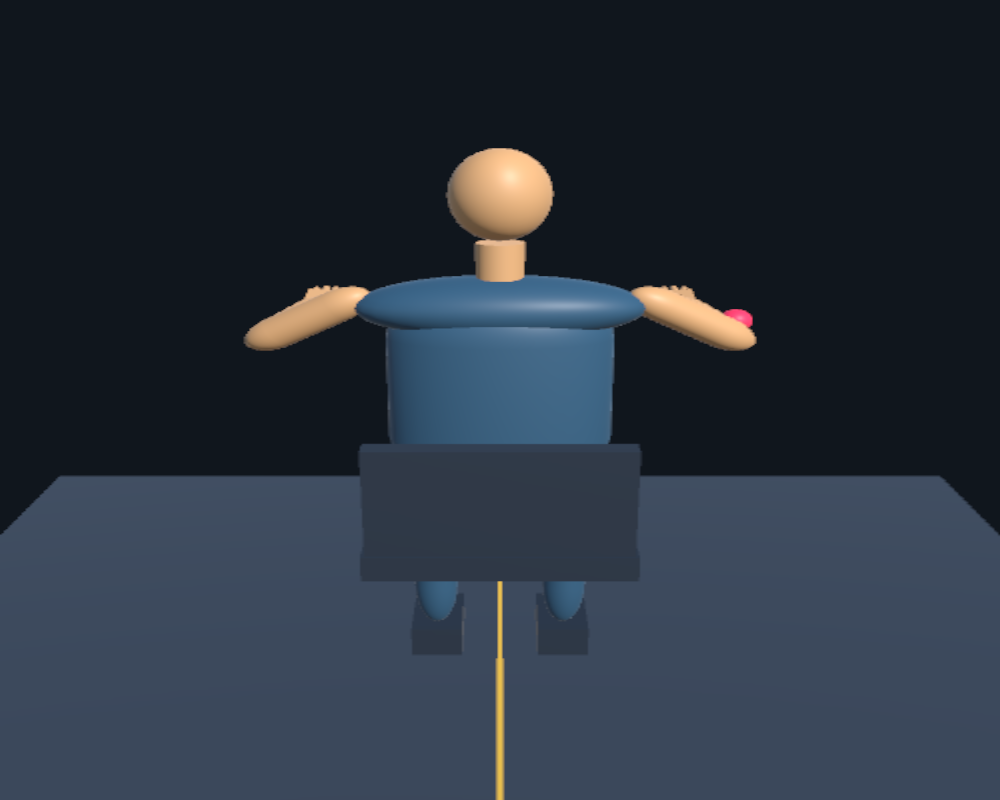
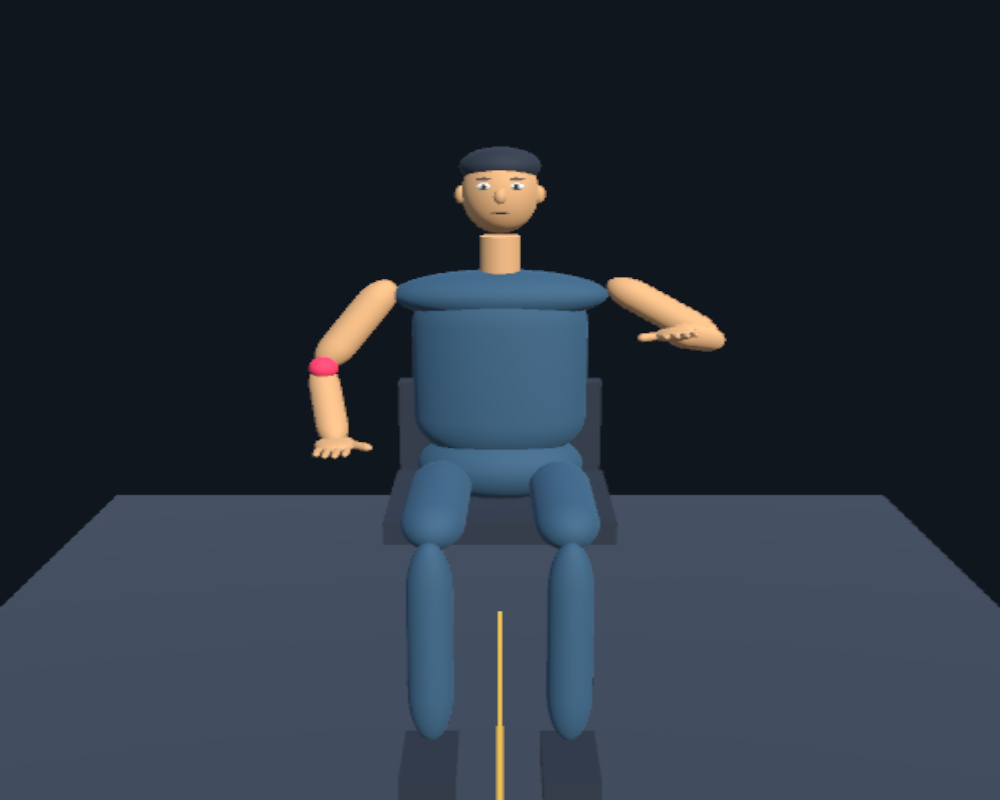
feat: add opposite-only mapping and front-facing embodiment views

Changed region(s): [[0.0, 0.1562, 1.0, 0.9375]]

diff --git a/Assets/ClassDemo/Scripts/ClassEmbodimentDemo.cs b/Assets/ClassDemo/Scripts/ClassEmbodimentDemo.cs
@@ -11,7 +11,9 @@ namespace ClassEmbodimentDemo
         Camera sourceCamera, displayCamera;
         Transform sourceTouch, displayedTouch;
         bool animate=true, touch, crossTouch=true, firstPerson;
+        bool oppositeOnly=true;
         int touchSide;
+        float lookPitch=38f, lookYaw;
         float time, touchTime, manualHeight=.98f;
         Pose left, right;
         readonly System.Collections.Generic.List<Material> materials=new System.Collections.Generic.List<Material>();
@@ -20,16 +22,17 @@ namespace ClassEmbodimentDemo
         {
             var body=Material("Clothing",new Color(.19f,.34f,.44f));
             var skin=Material("Virtual skin",new Color(.85f,.64f,.43f));
-            var ghost=Material("Simulated source",new Color(.31f,.71f,.78f));
+            var sourceShirt=Material("Source shirt",new Color(.12f,.43f,.57f));
+            var eyeWhite=Material("Eye whites",new Color(.88f,.89f,.85f));
             var chair=Material("Chair",new Color(.13f,.17f,.22f));
-            source=new DemoMannequin("SIMULATED physical body",new Vector3(-2,0,0),body,ghost,chair);
-            displayed=new DemoMannequin("DISPLAYED virtual body",new Vector3(2,0,0),body,skin,chair);
+            source=new DemoMannequin("SIMULATED physical body",new Vector3(-2,0,0),sourceShirt,skin,chair,eyeWhite);
+            displayed=new DemoMannequin("DISPLAYED virtual body",new Vector3(2,0,0),body,skin,chair,eyeWhite);
             SetLayer(source.Root,8); SetLayer(displayed.Root,9);
-            sourceCamera=MakeCamera("Source observation camera",new Vector3(-2,2.05f,-2.75f),new Vector3(-2,1.03f,.18f));
-            displayCamera=MakeCamera("Avatar observation camera",new Vector3(2,2.05f,-2.75f),new Vector3(2,1.03f,.18f));
+            sourceCamera=MakeCamera("Source observation camera",new Vector3(-2,1.85f,3.1f),new Vector3(-2,1.06f,.1f));
+            displayCamera=MakeCamera("Avatar observation camera",new Vector3(2,1.85f,3.1f),new Vector3(2,1.06f,.1f));
             sourceCamera.cullingMask=1<<8; displayCamera.cullingMask=1<<9;
             var light=new GameObject("Demo directional light").AddComponent<Light>();
-            light.type=LightType.Directional; light.intensity=1.15f; light.transform.rotation=Quaternion.Euler(40,-30,0);
+            light.type=LightType.Directional; light.intensity=1.15f; light.transform.rotation=Quaternion.Euler(40,155,0);
             RenderSettings.ambientLight=new Color(.50f,.53f,.60f);
             var floorMat=Material("Floor",new Color(.21f,.25f,.30f));
             var lineMat=Material("Midline",new Color(.92f,.73f,.25f));
@@ -48,7 +51,7 @@ namespace ClassEmbodimentDemo
 
         Material Material(string name,Color color)
         {
-            var m=new Material(Shader.Find("Standard")){name=name,color=color}; materials.Add(m);return m;
+            var m=new Material(Shader.Find("Standard")){name=name,color=color}; m.SetFloat("_Glossiness",.18f); materials.Add(m);return m;
         }
         Transform Primitive(string name,PrimitiveType type,Vector3 position,Vector3 scale,Material material)
         {
@@ -76,12 +79,12 @@ namespace ClassEmbodimentDemo
             }
             float wave=(Mathf.Sin(time*1.1f)+1)*.5f;
             float y=animate?Mathf.Lerp(.94f,1.58f,wave):manualHeight;
-            var resting=new Pose(new Vector3(.35f,.98f,.29f),Quaternion.identity);
+            var resting=DemoMovementMapping.RestingPose(true);
             // Asymmetric inputs make source selection visible. Congruent mode animates left only.
             bool driveRight=condition==MovementCondition.RightToLeft;
             left=driveRight?new Pose(DemoMovementMapping.Reflect(resting.position),Quaternion.identity):new Pose(new Vector3(-.36f,y,.31f),Quaternion.Euler(-15*wave,0,-12*wave));
             right=driveRight?new Pose(new Vector3(.36f,y,.31f),Quaternion.Euler(-15*wave,0,12*wave)):resting;
-            DemoMovementMapping.Map(condition,left,right,out var outputLeft,out var outputRight);
+            DemoMovementMapping.Map(condition,left,right,out var outputLeft,out var outputRight,oppositeOnly);
             source.SetPose(0,left);source.SetPose(1,right);displayed.SetPose(0,outputLeft);displayed.SetPose(1,outputRight);
             if(touch)touchTime+=dt;
             float fraction=.2f+.6f*Mathf.PingPong(touchTime*.35f,1);
@@ -90,19 +93,26 @@ namespace ClassEmbodimentDemo
             displayedTouch.position=displayed.ForearmPoint(crossTouch?1-touchSide:touchSide,fraction);
             sourceTouch.gameObject.layer=8; displayedTouch.gameObject.layer=9;
             float uiScale=Screen.width/1280f;
-            float top=82f*uiScale/Screen.height, bottom=180f*uiScale/Screen.height;
+            float top=104f*uiScale/Screen.height, bottom=220f*uiScale/Screen.height;
+            sourceCamera.enabled=!firstPerson;
             sourceCamera.rect=new Rect(0,bottom,.5f,Mathf.Max(.1f,1-top-bottom));
-            displayCamera.rect=new Rect(.5f,bottom,.5f,Mathf.Max(.1f,1-top-bottom));
+            displayCamera.rect=new Rect(firstPerson?0:.5f,bottom,firstPerson?1:.5f,Mathf.Max(.1f,1-top-bottom));
             displayed.Head.gameObject.SetActive(!firstPerson);
             if(firstPerson)
             {
                 displayCamera.transform.position=new Vector3(2,1.68f,.07f);
-                displayCamera.transform.rotation=Quaternion.Euler(44,0,0);displayCamera.fieldOfView=100;
+                if(Mouse.current!=null && Mouse.current.rightButton.isPressed)
+                {
+                    Vector2 delta=Mouse.current.delta.ReadValue();
+                    lookYaw=Mathf.Clamp(lookYaw+delta.x*.10f,-65,65);
+                    lookPitch=Mathf.Clamp(lookPitch-delta.y*.10f,-15,75);
+                }
+                displayCamera.transform.rotation=Quaternion.Euler(lookPitch,lookYaw,0);displayCamera.fieldOfView=85;
             }
             else
             {
-                displayCamera.transform.position=new Vector3(2,2.05f,-2.75f);
-                displayCamera.transform.LookAt(new Vector3(2,1.03f,.18f));displayCamera.fieldOfView=42;
+                displayCamera.transform.position=new Vector3(2,1.85f,3.1f);
+                displayCamera.transform.LookAt(new Vector3(2,1.06f,.1f));displayCamera.fieldOfView=42;
             }
         }
 
@@ -114,22 +124,27 @@ namespace ClassEmbodimentDemo
             GUI.skin.label.fontSize=15; GUI.skin.button.fontSize=15; GUI.skin.toggle.fontSize=15;
             var title=new GUIStyle(GUI.skin.label){fontSize=21,fontStyle=FontStyle.Bold,alignment=TextAnchor.MiddleCenter};
             var label=new GUIStyle(GUI.skin.label){fontSize=14,alignment=TextAnchor.MiddleCenter,wordWrap=true};
-            GUI.Box(new Rect(0,0,w,82),GUIContent.none);
+            GUI.Box(new Rect(0,0,w,104),GUIContent.none);
             GUI.Label(new Rect(0,5,w,27),"CROSS-LIMB EMBODIMENT  /  CLASS DEMONSTRATION",title);
             GUI.Label(new Rect(0,33,w,23),"SIMULATED INPUT — No Quest tracking, physical touch sensing, or validated embodiment",label);
-            GUI.Label(new Rect(0,56,w*.5f,24),"SIMULATED PHYSICAL BODY  •  cyan arms",label);
-            GUI.Label(new Rect(w*.5f,56,w*.5f,24),"DISPLAYED VIRTUAL BODY  •  gold arms",label);
-            GUILayout.BeginArea(new Rect(8,h-174,w-16,170),GUI.skin.box);
+            GUI.Label(new Rect(0,56,firstPerson?w:w*.5f,24),firstPerson?"FIRST-PERSON VIRTUAL BODY  •  Hold right mouse button to look around":"SIMULATED PHYSICAL BODY  •  blue shirt",label);
+            if(!firstPerson) GUI.Label(new Rect(w*.5f,56,w*.5f,24),"DISPLAYED VIRTUAL BODY  •  dark shirt",label);
+            GUI.Label(new Rect(0,80,w,22),firstPerson?"Your LEFT is screen-left; your RIGHT is screen-right. Desktop preview, not stereoscopic VR.":"FRONT VIEW: participant RIGHT = screen-left  |  participant LEFT = screen-right",label);
+            GUILayout.BeginArea(new Rect(8,h-214,w-16,210),GUI.skin.box);
             GUILayout.BeginHorizontal();GUILayout.Label("Movement",GUILayout.Width(80));
             if(GUILayout.Button("Normal / congruent"))condition=MovementCondition.Congruent;
             if(GUILayout.Button("LEFT → RIGHT"))condition=MovementCondition.LeftToRight;
             if(GUILayout.Button("RIGHT → LEFT"))condition=MovementCondition.RightToLeft;
             GUILayout.EndHorizontal();
-            GUILayout.Label("Active: "+condition+". Source-side avatar arm remains congruent; mirror modes drive both displayed arms from one source.");
+            GUILayout.BeginHorizontal();
+            oppositeOnly=GUILayout.Toggle(oppositeOnly,"Opposite arm ONLY (off = both arms)",GUILayout.Width(350));
+            GUILayout.Label(condition==MovementCondition.Congruent?"Normal: physical left → virtual left; physical right → virtual right.":(oppositeOnly?"Only the opposite virtual arm moves; the unused arm stays at rest.":"One source drives BOTH virtual arms."));
+            GUILayout.EndHorizontal();
             GUILayout.BeginHorizontal();
             animate=GUILayout.Toggle(animate,"Animate simulated source",GUILayout.Width(205));
             GUILayout.Label("Manual height",GUILayout.Width(90));manualHeight=GUILayout.HorizontalSlider(manualHeight,.91f,1.61f,GUILayout.MinWidth(80));
             firstPerson=GUILayout.Toggle(firstPerson,"First-person avatar view",GUILayout.Width(205));
+            if(GUILayout.Button("Recenter view",GUILayout.Width(125))){lookPitch=38;lookYaw=0;}
             GUILayout.EndHorizontal();
             GUILayout.BeginHorizontal();
             if(GUILayout.Button(touch?"Stop visual touch":"Start visual touch",GUILayout.Width(155))){touch=!touch;touchTime=0;}
@@ -137,7 +152,7 @@ namespace ClassEmbodimentDemo
             crossTouch=GUILayout.Toggle(crossTouch,"Cross-limb touch (off = congruent)");
             GUILayout.EndHorizontal();
             GUILayout.Label("Touch: simulated "+(touchSide==0?"LEFT":"RIGHT")+" forearm → virtual "+((crossTouch?1-touchSide:touchSide)==0?"LEFT":"RIGHT")+" forearm. Pink marker = visual stimulus; fixed repeating forearm stroke.");
-            GUILayout.Label("Uncheck animation to use the height slider or ↑ / ↓. Yellow floor line = authored body midline. No scientific data recorded.");
+            GUILayout.Label("Uncheck animation to use the height slider or ↑ / ↓. All LEFT/RIGHT labels are anatomical (the participant’s sides). No scientific data recorded.");
             GUILayout.EndArea();
         }
         void OnDestroy(){foreach(var material in materials)if(material!=null)Destroy(material);}

diff --git a/Assets/ClassDemo/Scripts/DemoMannequin.cs b/Assets/ClassDemo/Scripts/DemoMannequin.cs
@@ -11,15 +11,27 @@ namespace ClassEmbodimentDemo
         readonly Vector3[] elbows = new Vector3[2], wrists = new Vector3[2];
         const float UpperLength = .30f, LowerLength = .28f;
 
-        public DemoMannequin(string name, Vector3 position, Material body, Material skin, Material chair)
+        public DemoMannequin(string name, Vector3 position, Material body, Material skin, Material chair, Material eyeWhite)
         {
             Root = new GameObject(name).transform;
             Root.position = position;
-            Part("Torso", PrimitiveType.Capsule, new Vector3(0,1.13f,0), new Vector3(.43f,.29f,.25f), body);
-            Part("Shoulders", PrimitiveType.Sphere, new Vector3(0,1.36f,0), new Vector3(.55f,.17f,.24f), body);
+            Part("Torso", PrimitiveType.Capsule, new Vector3(0,1.13f,0), new Vector3(.40f,.29f,.24f), body);
+            Part("Shoulders", PrimitiveType.Sphere, new Vector3(0,1.36f,0), new Vector3(.49f,.15f,.23f), body);
             Part("Hips", PrimitiveType.Sphere, new Vector3(0,.83f,0), new Vector3(.39f,.22f,.27f), body);
             Part("Neck", PrimitiveType.Cylinder, new Vector3(0,1.48f,0), new Vector3(.09f,.055f,.09f), skin);
-            Head = Part("Head", PrimitiveType.Sphere, new Vector3(0,1.66f,0), new Vector3(.19f,.24f,.20f), skin);
+            Head = Part("Head", PrimitiveType.Sphere, new Vector3(0,1.66f,0), new Vector3(.17f,.235f,.185f), skin);
+            // Facial landmarks make forward direction unambiguous. All face parts parent to Head
+            // so they disappear together in first-person view. Still a stylized procedural avatar.
+            Face("Hair",new Vector3(0,.075f,-.012f),new Vector3(.18f,.11f,.18f),chair);
+            Face("Nose",new Vector3(0,-.005f,.094f),new Vector3(.028f,.043f,.035f),skin);
+            Face("Mouth",new Vector3(0,-.052f,.080f),new Vector3(.044f,.006f,.012f),chair);
+            for(int side=-1;side<=1;side+=2)
+            {
+                Face("Ear",new Vector3(side*.086f,-.005f,0),new Vector3(.027f,.050f,.030f),skin);
+                Face("Eye white",new Vector3(side*.035f,.022f,.080f),new Vector3(.033f,.020f,.022f),eyeWhite);
+                Face("Iris",new Vector3(side*.035f,.022f,.090f),new Vector3(.013f,.015f,.008f),chair);
+                Face("Brow",new Vector3(side*.035f,.043f,.079f),new Vector3(.038f,.008f,.012f),chair);
+            }
             Part("Seat", PrimitiveType.Cube, new Vector3(0,.69f,0), new Vector3(.52f,.07f,.48f), chair);
             Part("Chair back", PrimitiveType.Cube, new Vector3(0,.89f,-.23f), new Vector3(.50f,.30f,.06f), chair);
             for (int i=0;i<2;i++)
@@ -34,7 +46,7 @@ namespace ClassEmbodimentDemo
                 lower[i]=Part(i==0?"Left forearm":"Right forearm",PrimitiveType.Capsule,Vector3.zero,Vector3.one,skin);
                 palms[i]=new GameObject(i==0?"Left hand":"Right hand").transform;
                 palms[i].SetParent(Root,false);
-                var palm=Part("Palm",PrimitiveType.Cube,Vector3.zero,new Vector3(.083f,.033f,.095f),skin);
+                var palm=Part("Palm",PrimitiveType.Sphere,Vector3.zero,new Vector3(.088f,.038f,.108f),skin);
                 palm.SetParent(palms[i],false);
                 for(int f=0;f<4;f++)
                 {
@@ -47,6 +59,16 @@ namespace ClassEmbodimentDemo
                 thumb.SetParent(palms[i],false);
                 Segment(thumb,new Vector3(-side*.035f,0,0),new Vector3(-side*.078f,0,.035f),.021f);
             }
+        }
+
+        void Face(string name, Vector3 localPosition, Vector3 scale, Material material)
+        {
+            var part=Part(name,PrimitiveType.Sphere,Vector3.zero,Vector3.one,material);
+            // Head itself has nonuniform scale; divide to preserve physical dimensions.
+            part.SetParent(Head,false);
+            var h=Head.localScale;
+            part.localPosition=new Vector3(localPosition.x/h.x,localPosition.y/h.y,localPosition.z/h.z);
+            part.localScale=new Vector3(scale.x/h.x,scale.y/h.y,scale.z/h.z);
         }
 
         Transform Part(string name, PrimitiveType type, Vector3 position, Vector3 scale, Material material)

diff --git a/Assets/ClassDemo/Editor/ClassDemoSetup.cs b/Assets/ClassDemo/Editor/ClassDemoSetup.cs
@@ -39,7 +39,20 @@ public static class ClassDemoSetup
             var expectedR=condition==MovementCondition.LeftToRight?DemoMovementMapping.Reflect(l.position):r.position;
             Require(Vector3.Distance(dl.position,expectedL)<.00001f && Vector3.Distance(dr.position,expectedR)<.00001f,"Condition routing failed.");
         }
-        Debug.Log("Class demo reflection checks PASS: involution, S R S orientation, and three condition routes. Hardware and anatomical validation not performed.");
+        foreach(var condition in new[]{MovementCondition.LeftToRight,MovementCondition.RightToLeft})
+        {
+            DemoMovementMapping.Map(condition,l,r,out var dl,out var dr,true);
+            bool leftSource=condition==MovementCondition.LeftToRight;
+            Pose parked=leftSource?dl:dr, active=leftSource?dr:dl, input=leftSource?l:r;
+            var expectedRest=DemoMovementMapping.RestingPose(!leftSource);
+            Require(Vector3.Distance(parked.position,expectedRest.position)<.00001f && Quaternion.Angle(parked.rotation,expectedRest.rotation)<.02f,"Unused arm must stay at neutral rest.");
+            Require(Vector3.Distance(active.position,DemoMovementMapping.Reflect(input.position))<.00001f && Quaternion.Angle(active.rotation,DemoMovementMapping.Reflect(input.rotation))<.02f,"Opposite-only pose mapping failed.");
+            var movedL=new Pose(l.position+Vector3.up*.1f,l.rotation);
+            var movedR=new Pose(r.position+Vector3.up*.1f,r.rotation);
+            DemoMovementMapping.Map(condition,movedL,movedR,out var nextL,out var nextR,true);
+            Require(Vector3.Distance(parked.position,(leftSource?nextL:nextR).position)<.00001f,"Unused arm must not follow source changes.");
+        }
+        Debug.Log("Class demo reflection checks PASS: involution, S R S orientation, three condition routes, and opposite-only parked-arm invariance. Hardware and anatomical validation not performed.");
     }
     static void Require(bool value,string message){if(!value)throw new Exception(message);}
 }

diff --git a/Assets/ClassDemo/Scripts/DemoMovementMapping.cs b/Assets/ClassDemo/Scripts/DemoMovementMapping.cs
@@ -16,15 +16,23 @@ namespace ClassEmbodimentDemo
         public static Quaternion Reflect(Quaternion rotation) =>
             Quaternion.LookRotation(Reflect(rotation * Vector3.forward), Reflect(rotation * Vector3.up));
 
-        public static void Map(MovementCondition condition, Pose left, Pose right, out Pose displayedLeft, out Pose displayedRight)
+        public static Pose RestingPose(bool right) => new Pose(new Vector3(right ? .35f : -.35f, .98f, .29f), Quaternion.identity);
+
+        public static void Map(MovementCondition condition, Pose left, Pose right, out Pose displayedLeft, out Pose displayedRight, bool oppositeOnly = false)
         {
             displayedLeft = left;
             displayedRight = right;
-            // The source-side virtual arm retains congruent movement: one source drives both.
+            // Opposite-only parks the unused virtual arm in a fixed neutral pose; it does not copy input.
             if (condition == MovementCondition.LeftToRight)
+                {
                 displayedRight = new Pose(Reflect(left.position), Reflect(left.rotation));
+                if (oppositeOnly) displayedLeft = RestingPose(false);
+            }
             if (condition == MovementCondition.RightToLeft)
+                {
                 displayedLeft = new Pose(Reflect(right.position), Reflect(right.rotation));
+                if (oppositeOnly) displayedRight = RestingPose(true);
+            }
         }
     }
 }

diff --git a/CLASS_DEMO.md b/CLASS_DEMO.md
@@ -10,10 +10,10 @@ This is a separate presentation prototype. The accepted Milestone 1 snapshot rem
 2. Choose **Quest Prototype → Class Demo → Create or Open Demo Scene**. Alternatively open `Assets/ClassDemo/Scenes/ClassEmbodimentDemo.unity`.
 3. Press the top-center **Play** button and select the **Game** tab. The mannequins are generated when Play starts; an empty editing view before Play is expected.
 4. Maximize the Game panel for class (double-click its tab). A wide landscape view is recommended.
-5. The cyan mannequin on the left represents **simulated physical input**. The gold arms on the right show the **displayed virtual body**. Both are seen from behind so left/right agree with the participant's perspective.
-6. Select **Normal / congruent**, **LEFT → RIGHT**, and **RIGHT → LEFT** to compare mappings. In normal mode the left source arm animates while the right rests. In mirror modes the source-side virtual arm remains congruent: one simulated source drives both displayed arms.
+5. The blue-shirt avatar on the left represents **simulated physical input**. The dark-shirt avatar on the right shows the **displayed virtual body**. Both face you: the participant's anatomical LEFT appears on screen-right, and RIGHT on screen-left. The header explicitly labels this.
+6. Select **Normal / congruent**, **LEFT → RIGHT**, and **RIGHT → LEFT** to compare mappings. In normal mode the left source arm animates while the right rests. **Opposite arm ONLY** is enabled by default: left input moves only the virtual right arm, or right input only the virtual left arm; the unused virtual arm is held at a fixed neutral rest pose. Uncheck this option to retain the original one-source-drives-both-arms behavior. The option does not alter normal/congruent mapping.
 7. Uncheck **Animate simulated source** to move the source arm using the height slider or Up/Down arrow keys. This is synthetic input, not hand tracking.
-8. Enable **First-person avatar view** to look down at the virtual torso, arms and hands. This is a fixed desktop camera, not headset tracking.
+8. Enable **First-person avatar view** to look down at the virtual torso, arms and hands. This view fills the available viewing area. Hold the right mouse button and move the mouse to look around; choose **Recenter view** to reset. It is a monoscopic desktop preview, not stereoscopic headset tracking.
 9. Click **Start visual touch**. Pink markers follow the source and mapped forearms. Switch **Physical side** and toggle **Cross-limb touch** to compare congruent versus opposite-side visual contact. Click **Stop visual touch** to hide the markers.
 10. Press Play again to stop. The original `QuestBootstrap` remains the only Android build scene; the existing APK does not contain this class demo scene.
 
@@ -21,9 +21,9 @@ This is a separate presentation prototype. The accepted Milestone 1 snapshot rem
 
 “I'm investigating cross-limb virtual embodiment: whether seeing an arm respond to movement from the opposite physical arm can influence ownership or agency. Today this is a desktop simulation, not a tested headset experience.”
 
-Show **Normal**: “The cyan figure represents physical input; the gold figure represents the avatar. Normal movement preserves the left/right relationship.”
+Show **Normal**: “The blue-shirt figure represents simulated physical input; the dark-shirt figure represents the avatar. Normal movement preserves the left/right relationship.”
 
-Show **LEFT → RIGHT**, then **RIGHT → LEFT**: “Here the source arm drives the opposite virtual arm. Positions and orientations are reflected in a defined body frame, not by arbitrarily negating world coordinates. The source-side virtual arm also follows, so this example drives both arms.”
+Show **LEFT → RIGHT**, then **RIGHT → LEFT**: “Here the source arm drives the opposite virtual arm. Positions and orientations are reflected in a defined body frame, not by arbitrarily negating world coordinates. With Opposite arm ONLY enabled, the unused virtual arm stays at rest. Disabling it shows the alternative where both virtual arms follow the same input.”
 
 Enable **First-person avatar view**: “This is the intended viewing relationship: looking down at a body with arms and hands. A real participant will need calibration, reliable tracking and better anatomical alignment.”
 
@@ -33,7 +33,7 @@ Ask: “Which cues would make this virtual arm feel like your own? Would showing
 
 ## Implementation and limitations
 
-- Procedural seated mannequin with torso, head, legs, arms, palms and fixed fingers. Original geometry; no legacy assets, third-party avatar files or extra packages imported.
+- Stylized procedural seated avatar with facial landmarks, hair, ears, torso, legs, arms, rounded palms and fixed fingers. This improves readability, not photorealism. Original geometry; no legacy assets, third-party avatar files or extra packages imported.
 - Analytic two-bone position IK with fixed outward elbow poles and reach clamping. Not a calibrated anatomical model. Fingers do not track or articulate.
 - Input poses, movement mapping, and mannequin rendering are separate code responsibilities. All simulation poses use the authored participant-local frame (+X right, +Y up, +Z forward).
 - Position reflection is `S p`; orientation reflection is `S R S`, `S = diag(-1,1,1)`. Our procedural hand geometry has mirrored thumb placement. This does not establish bone mappings for an arbitrary imported avatar.

diff --git a/CLASS_DEMO_VERIFICATION.md b/CLASS_DEMO_VERIFICATION.md
@@ -32,3 +32,13 @@ These are renders of the procedural Unity avatar, not headset captures and not c
 ![First-person desktop avatar render](Docs/class-demo-first-person.png)
 
 ![Observer desktop avatar render](Docs/class-demo-avatar.png)
+
+## Opposite-only and front-view update — 2026-09-23
+
+- Added explicit opposite-only mapping in both directions. Tests verify reflected position/orientation and that the unused virtual arm remains at its fixed neutral pose when source poses change. The original both-arm behavior remains selectable; congruent mapping is unchanged.
+- Unity batch compilation and reflection checks passed with exit 0 in `/private/tmp/quest-class-demo-v2-math.log`.
+- The temporary runtime harness again exercised three movement selections and three touch routes; routing assertions and touch-stop check completed. Observer and first-person renders were inspected and refreshed above.
+- The same Unity Editor Search indexing exception occurred; the overall smoke process exited 1. See `/private/tmp/quest-class-demo-v2-render.log`. No demo-script exception was observed.
+- Both comparison cameras now face the avatars. Anatomical left/right is labeled explicitly. Avatar facial landmarks and rounded palms improve presentation, but the geometry remains stylized, not photorealistic.
+- First-person mode uses a full-width monoscopic view, right-mouse look, and recenter. Mouse-look interaction and every final UI click have not been manually exercised; rendered camera placement and compilation were checked.
+- Quest tracking remains unimplemented in this demo; all source movement is simulated. No baseline packages, settings, or QuestBootstrap assets were changed.

diff --git a/README.md b/README.md
@@ -1,6 +1,6 @@
 # Class embodiment demo branch
 
-This branch adds a **desktop simulation** for class. Open **Quest Prototype → Class Demo → Create or Open Demo Scene**, then press **Play** and select **Game**. Read [CLASS_DEMO.md](CLASS_DEMO.md) for controls and limitations. It does not complete or validate later Quest research milestones. The original Milestone 1 documentation follows.
+This branch adds a **desktop simulation** for class. Open **Quest Prototype → Class Demo → Create or Open Demo Scene**, then press **Play** and select **Game**. The demo now defaults to **opposite-arm-only** mapping, front-facing avatars, and a full-width first-person mode with right-mouse look. Read [CLASS_DEMO.md](CLASS_DEMO.md) for controls and limitations. It does not complete or validate later Quest research milestones. The original Milestone 1 documentation follows.
 
 # Quest head-tracking bootstrap — Milestone 1
 
